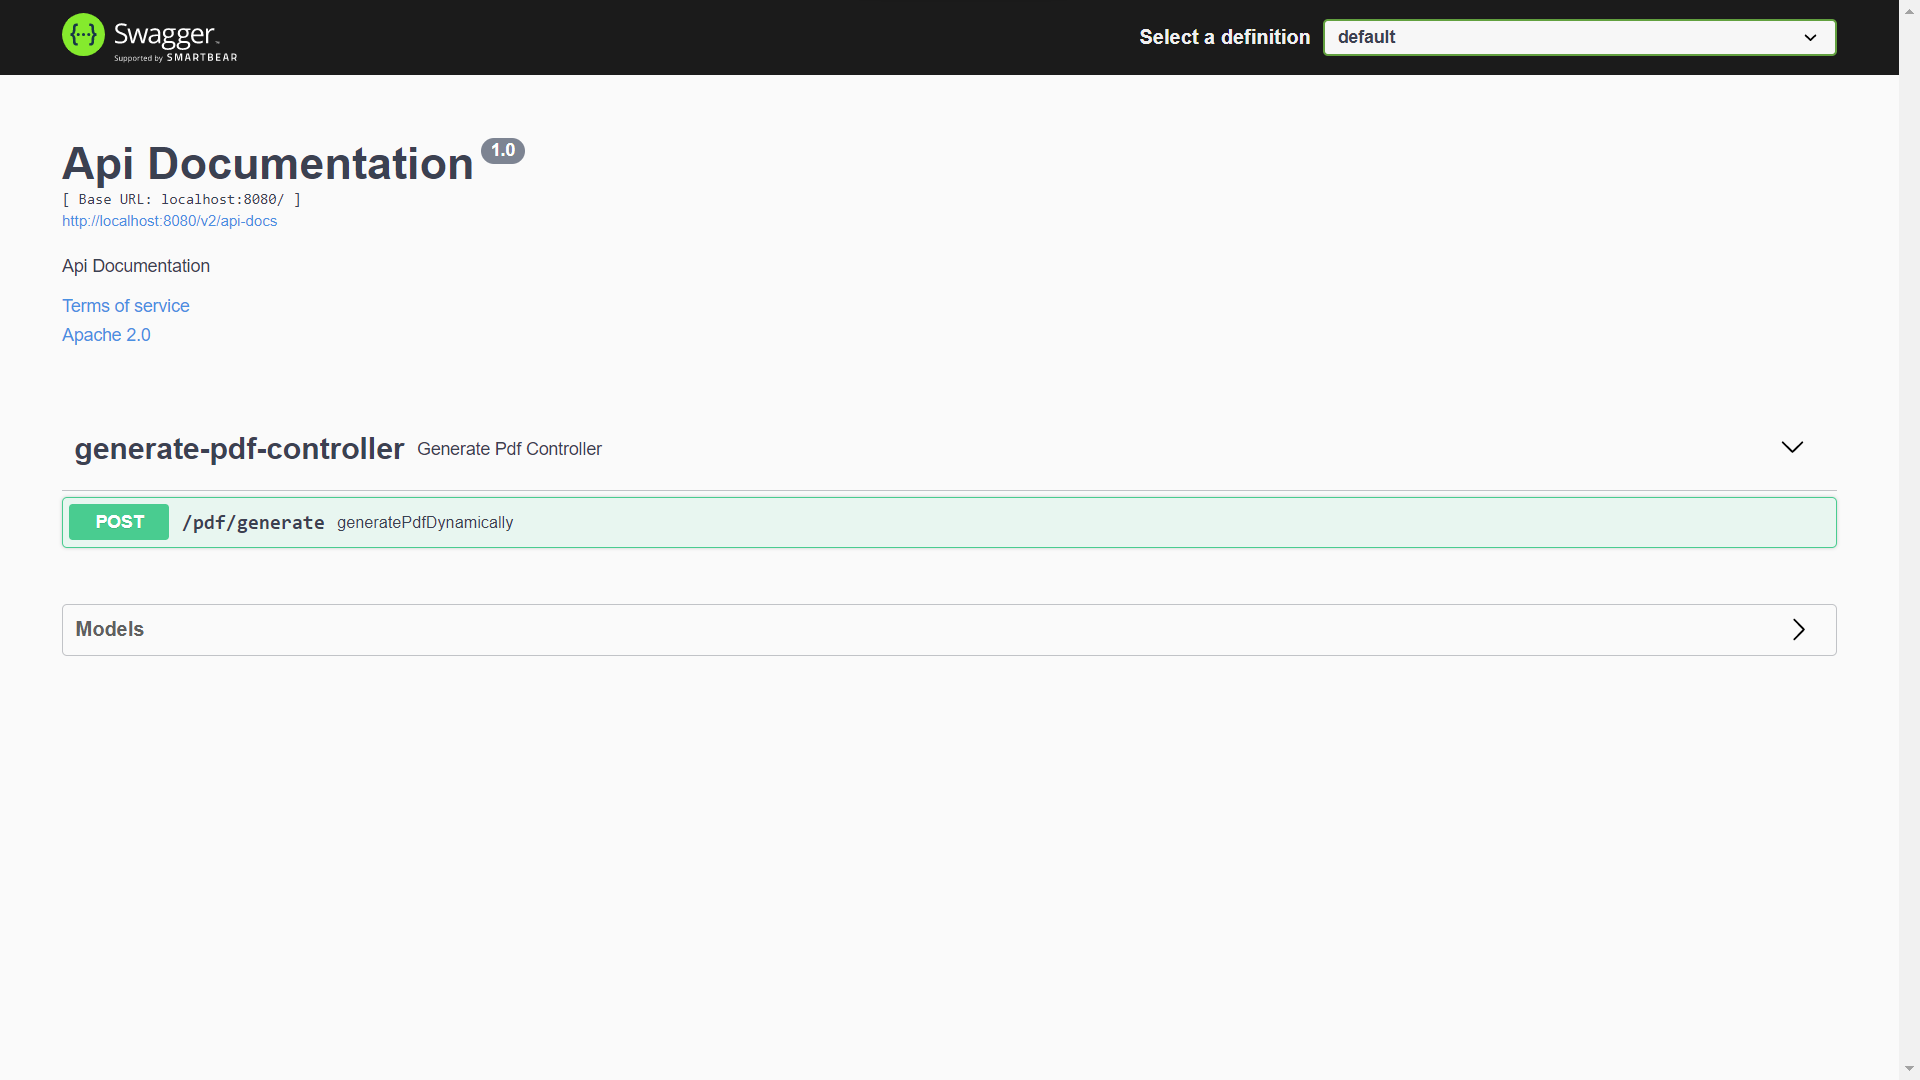
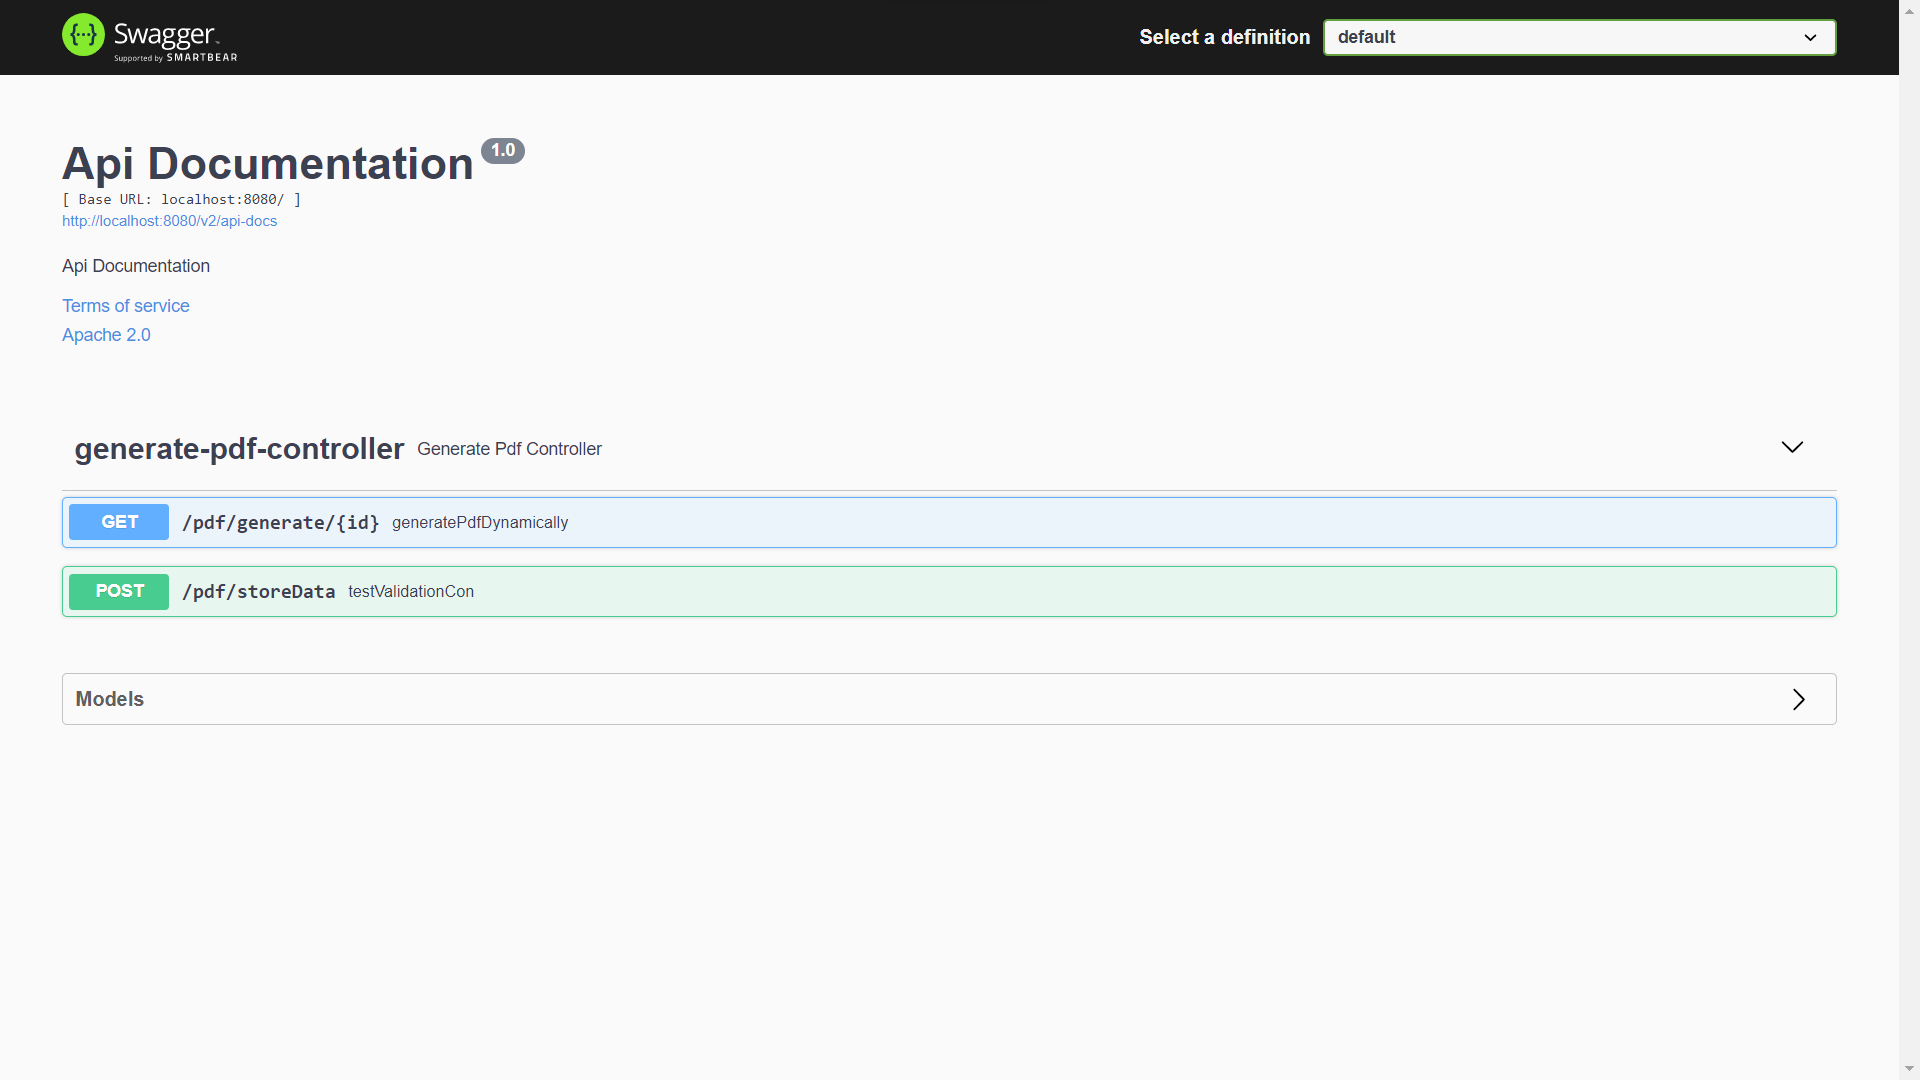
update PdfGenerator

Changed region(s): [[0.0312, 0.4583, 0.25, 0.6111], [0.1562, 0.4583, 0.3125, 0.4889], [0.0312, 0.6417, 0.0938, 0.6722]]

diff --git a/PdfGenerator/src/main/java/com/pdf/controller/GeneratePdfController.java b/PdfGenerator/src/main/java/com/pdf/controller/GeneratePdfController.java
@@ -7,13 +7,18 @@ import javax.validation.Valid;
 import org.springframework.beans.factory.annotation.Autowired;
 import org.springframework.core.io.InputStreamResource;
 import org.springframework.http.HttpHeaders;
+import org.springframework.http.HttpStatus;
 import org.springframework.http.MediaType;
 import org.springframework.http.ResponseEntity;
+import org.springframework.web.bind.annotation.GetMapping;
+import org.springframework.web.bind.annotation.PathVariable;
 import org.springframework.web.bind.annotation.PostMapping;
 import org.springframework.web.bind.annotation.RequestBody;
 import org.springframework.web.bind.annotation.RequestMapping;
 import org.springframework.web.bind.annotation.RestController;
-import com.pdf.model.InvoiceDTO;
+
+import com.pdf.exception.InvoiceException;
+import com.pdf.model.InvoiceData;
 import com.pdf.service.PdfService;
 
 
@@ -25,10 +30,12 @@ public class GeneratePdfController {
 	private PdfService pdfService;
 	
 	
-	@PostMapping(value = "/generate")
-	public ResponseEntity<InputStreamResource> generatePdfDynamically(@RequestBody @Valid InvoiceDTO dto){
+	@GetMapping(value = "/generate/{InvoiceId}")
+	public ResponseEntity<InputStreamResource> generatePdfDynamically(@PathVariable Integer InvoiceId) throws InvoiceException{
 		
-		ByteArrayInputStream document = pdfService.dynamicPdfGenerator(dto);
+		InvoiceData invoiceData = pdfService.findInoiDataById(InvoiceId);
+		
+		ByteArrayInputStream document = pdfService.dynamicPdfGenerator(invoiceData);
 		
 		HttpHeaders httpHeaders = new HttpHeaders();
 
@@ -39,5 +46,16 @@ public class GeneratePdfController {
 				.contentType(MediaType.APPLICATION_PDF)
 				
 				.body(new InputStreamResource(document));
+	}
+	
+	@PostMapping(value = "/storeData")
+	public ResponseEntity<String> uploadInvoiceDataToDB(@RequestBody @Valid InvoiceData dto){
+		
+		InvoiceData saveInvoiceData = pdfService.saveInvoiceData(dto);
+		
+		String res = "Use This InvoiceId for downloading file "+saveInvoiceData.getInvoiceNo();
+		
+		return new ResponseEntity<>(res,HttpStatus.OK);
+		
 	}
 }

diff --git a/PdfGenerator/src/main/java/com/pdf/model/InvoiceData.java b/PdfGenerator/src/main/java/com/pdf/model/InvoiceData.java
@@ -1,10 +1,17 @@
 package com.pdf.model;
-
 import java.util.List;
+
+import javax.persistence.CascadeType;
+import javax.persistence.Entity;
+import javax.persistence.GeneratedValue;
+import javax.persistence.GenerationType;
+import javax.persistence.Id;
+import javax.persistence.OneToMany;
+import javax.persistence.SequenceGenerator;
 import javax.validation.constraints.NotBlank;
 import javax.validation.constraints.NotNull;
-import javax.validation.constraints.Pattern;
 import javax.validation.constraints.Size;
+
 import lombok.AllArgsConstructor;
 import lombok.Data;
 import lombok.NoArgsConstructor;
@@ -12,7 +19,13 @@ import lombok.NoArgsConstructor;
 @Data
 @AllArgsConstructor
 @NoArgsConstructor
-public class InvoiceDTO {
+@Entity
+public class InvoiceData {
+	
+	@Id
+	@GeneratedValue(strategy = GenerationType.IDENTITY, generator = "invoiceNoSeq")
+	@SequenceGenerator(name = "invoiceNoSeq", initialValue = 101, allocationSize = 1)
+	private Integer invoiceNo;
 	
 	@NotBlank(message = "Seller name must not be blank")
 	private String seller;
@@ -20,6 +33,7 @@ public class InvoiceDTO {
 	
 	@NotNull(message = "Seller GSTIN must not be null")
 //	@Pattern(regexp = "\\d{2}[A-Z]{5}\\d{4}[A-Z]{1}\\d{1}[A-Z]{1}[A-Z\\d]{1}", message = "Invalid Seller GSTIN")
+	@Size(max = 15,min = 15,message = "Invalid Seller GSTIN")
 	private String sellerGstin;
 
 	
@@ -34,6 +48,7 @@ public class InvoiceDTO {
 	
 	@NotNull(message = "Buyer GSTIN must not be null")
 //	@Pattern(regexp = "\\d{2}[A-Z]{5}\\d{4}[A-Z]{1}\\d{1}[A-Z]{1}[A-Z\\d]{1}", message = "Invalid Buyer GSTIN")
+	@Size(max = 15,min = 15,message = "Invalid Buyer GSTIN")
 	private String buyerGstin;
 
 	
@@ -44,5 +59,6 @@ public class InvoiceDTO {
 	
 	@NotNull(message = "Items list must not be null")
 	@Size(min = 1, message = "At least one item must be present")
+	@OneToMany(cascade = CascadeType.ALL,mappedBy = "invoiceData")
 	private List<Item> items;
 }

diff --git a/PdfGenerator/src/main/java/com/pdf/service/PdfServiceImpl.java b/PdfGenerator/src/main/java/com/pdf/service/PdfServiceImpl.java
@@ -3,23 +3,28 @@ package com.pdf.service;
 import java.io.ByteArrayInputStream;
 import java.io.ByteArrayOutputStream;
 import java.util.List;
-
+import javax.validation.constraints.NotNull;
+import org.springframework.beans.factory.annotation.Autowired;
 import org.springframework.stereotype.Service;
-
 import com.lowagie.text.Document;
 import com.lowagie.text.Paragraph;
 import com.lowagie.text.Rectangle;
 import com.lowagie.text.pdf.PdfPCell;
 import com.lowagie.text.pdf.PdfPTable;
 import com.lowagie.text.pdf.PdfWriter;
-import com.pdf.model.InvoiceDTO;
+import com.pdf.exception.InvoiceException;
+import com.pdf.model.InvoiceData;
 import com.pdf.model.Item;
+import com.pdf.repository.InvoiceDataRepo;
 
 @Service
 public class PdfServiceImpl implements PdfService {
+	
+	@Autowired
+	private InvoiceDataRepo dataRepo;
 
 	@Override
-	public ByteArrayInputStream dynamicPdfGenerator(InvoiceDTO invoiceDTO) {
+	public ByteArrayInputStream dynamicPdfGenerator(InvoiceData invoiceDTO) {
 		
 		ByteArrayOutputStream out = new ByteArrayOutputStream();
 
@@ -136,6 +141,27 @@ public class PdfServiceImpl implements PdfService {
         
         // Converting "ByteArrayOutputStream" to "ByteArrayInputStream" and returning.
         return new ByteArrayInputStream(out.toByteArray());
+	}
+	
+	
+
+	@Override
+	public InvoiceData saveInvoiceData(InvoiceData data) {
+		@NotNull(message = "Items list must not be null")
+		List<Item> list = data.getItems();
+		
+		for(Item i :list) {
+			i.setInvoiceData(data);
+		}
+		
+		return dataRepo.save(data);
+	}
+
+
+
+	@Override
+	public InvoiceData findInoiDataById(Integer id) throws InvoiceException {
+		return dataRepo.findById(id).orElseThrow(() -> new InvoiceException("Invalid invoiceId..!"));
 	}
 
 }

diff --git a/PdfGenerator/src/main/java/com/pdf/model/Item.java b/PdfGenerator/src/main/java/com/pdf/model/Item.java
@@ -1,17 +1,31 @@
 package com.pdf.model;
 
+import javax.persistence.Entity;
+import javax.persistence.GeneratedValue;
+import javax.persistence.GenerationType;
+import javax.persistence.Id;
+import javax.persistence.JoinColumn;
+import javax.persistence.ManyToOne;
 import javax.validation.constraints.NotBlank;
 import javax.validation.constraints.NotNull;
 import javax.validation.constraints.Positive;
-
+import com.fasterxml.jackson.annotation.JsonIgnore;
 import lombok.AllArgsConstructor;
-import lombok.Data;
+import lombok.Getter;
 import lombok.NoArgsConstructor;
+import lombok.Setter;
 
-@Data
+@Entity
+@Getter
+@Setter
 @AllArgsConstructor
 @NoArgsConstructor
-public class Item {	
+public class Item {
+	
+	@Id
+	@GeneratedValue(strategy = GenerationType.IDENTITY)
+	private Integer itemId;
+	
 	@NotBlank(message = "Item name must not be blank")
     private String name;
 
@@ -25,4 +39,9 @@ public class Item {
     @NotNull(message = "Item amount must not be null")
     @Positive(message = "Item amount must be a positive number")
     private double amount;
+    
+    @ManyToOne
+    @JoinColumn(name = "invoiceId")
+    @JsonIgnore
+    private InvoiceData invoiceData;
 }

diff --git a/PdfGenerator/src/main/java/com/pdf/service/PdfService.java b/PdfGenerator/src/main/java/com/pdf/service/PdfService.java
@@ -1,9 +1,45 @@
 package com.pdf.service;
 
 import java.io.ByteArrayInputStream;
-import com.pdf.model.InvoiceDTO;
+
+import com.pdf.exception.InvoiceException;
+import com.pdf.model.InvoiceData;
 
 public interface PdfService {
 	
-	public ByteArrayInputStream dynamicPdfGenerator(InvoiceDTO invoiceDTO);
+	/**
+	 * This method is responsible for creating Pdf document, and returns ByteArrayInputStream
+	 * 
+	 * @param invoiceDTO
+	 * 
+	 * @return ByteArrayInputStream
+	 */
+	public ByteArrayInputStream dynamicPdfGenerator(InvoiceData invoiceDTO);
+	
+	
+	
+	
+	
+	/**
+	 * This method is responsible for storing the data to DB.
+	 * 
+	 * @param InvoiceData (Don't have any id's)
+	 * 
+	 * @return InvoiceData (It contains id's)
+	 */
+	public InvoiceData saveInvoiceData(InvoiceData data);
+	
+	
+	
+	
+	/**
+	 * This method is used for getting invoiceData using InvoiceId from DB.
+	 * 
+	 * @param Integer id
+	 * 
+	 * @return InvoiceData
+	 * 
+	 * @throws InvoiceException (If there is no data present with given Id).
+	 */
+	public InvoiceData findInoiDataById(Integer id) throws InvoiceException;
 }

diff --git a/PdfGenerator/src/main/java/com/pdf/exception/GlobalExceptionHandler.java b/PdfGenerator/src/main/java/com/pdf/exception/GlobalExceptionHandler.java
@@ -28,7 +28,7 @@ public class GlobalExceptionHandler {
 		
 		MyErrorDetails err= new MyErrorDetails();
 			err.setTimestamp(LocalDateTime.now());
-			err.setMessage(se.getMessage());
+			err.setMessage(se.getBindingResult().getFieldError().getDefaultMessage());
 			err.setDetails(req.getDescription(false));		
 		return new ResponseEntity<MyErrorDetails>(err, HttpStatus.BAD_REQUEST);
 	}
@@ -42,4 +42,21 @@ public class GlobalExceptionHandler {
 		err.setDetails(req.getDescription(false));
 		return new ResponseEntity<MyErrorDetails>(err, HttpStatus.BAD_REQUEST);
 	}
+	
+	
+	//**********************Custom Exception Handler************************
+
+
+
+	@ExceptionHandler(InvoiceException.class)
+	public ResponseEntity<MyErrorDetails> invoiceExceptionHandler(InvoiceException se, WebRequest req) {
+
+		MyErrorDetails err = new MyErrorDetails();
+		err.setTimestamp(LocalDateTime.now());
+		err.setMessage(se.getMessage());
+		err.setDetails(req.getDescription(false));
+		return new ResponseEntity<MyErrorDetails>(err, HttpStatus.BAD_REQUEST);
+	}
+
+
 }

diff --git a/PdfGenerator/src/main/java/com/pdf/exception/InvoiceException.java b/PdfGenerator/src/main/java/com/pdf/exception/InvoiceException.java
@@ -1,0 +1,13 @@
+package com.pdf.exception;
+
+public class InvoiceException extends Exception{
+
+	public InvoiceException() {
+		// TODO Auto-generated constructor stub
+	}
+
+	public InvoiceException(String message) {
+		super(message);
+		// TODO Auto-generated constructor stub
+	}
+}

diff --git a/PdfGenerator/src/main/java/com/pdf/repository/InvoiceDataRepo.java b/PdfGenerator/src/main/java/com/pdf/repository/InvoiceDataRepo.java
@@ -1,0 +1,9 @@
+package com.pdf.repository;
+
+import org.springframework.data.jpa.repository.JpaRepository;
+
+import com.pdf.model.InvoiceData;
+
+public interface InvoiceDataRepo extends JpaRepository<InvoiceData, Integer>{
+
+}

diff --git a/PdfGenerator/src/main/java/com/pdf/repository/ItemRepo.java b/PdfGenerator/src/main/java/com/pdf/repository/ItemRepo.java
@@ -1,0 +1,9 @@
+package com.pdf.repository;
+
+import org.springframework.data.jpa.repository.JpaRepository;
+
+import com.pdf.model.Item;
+
+public interface ItemRepo extends JpaRepository<Item, Integer>{
+
+}
